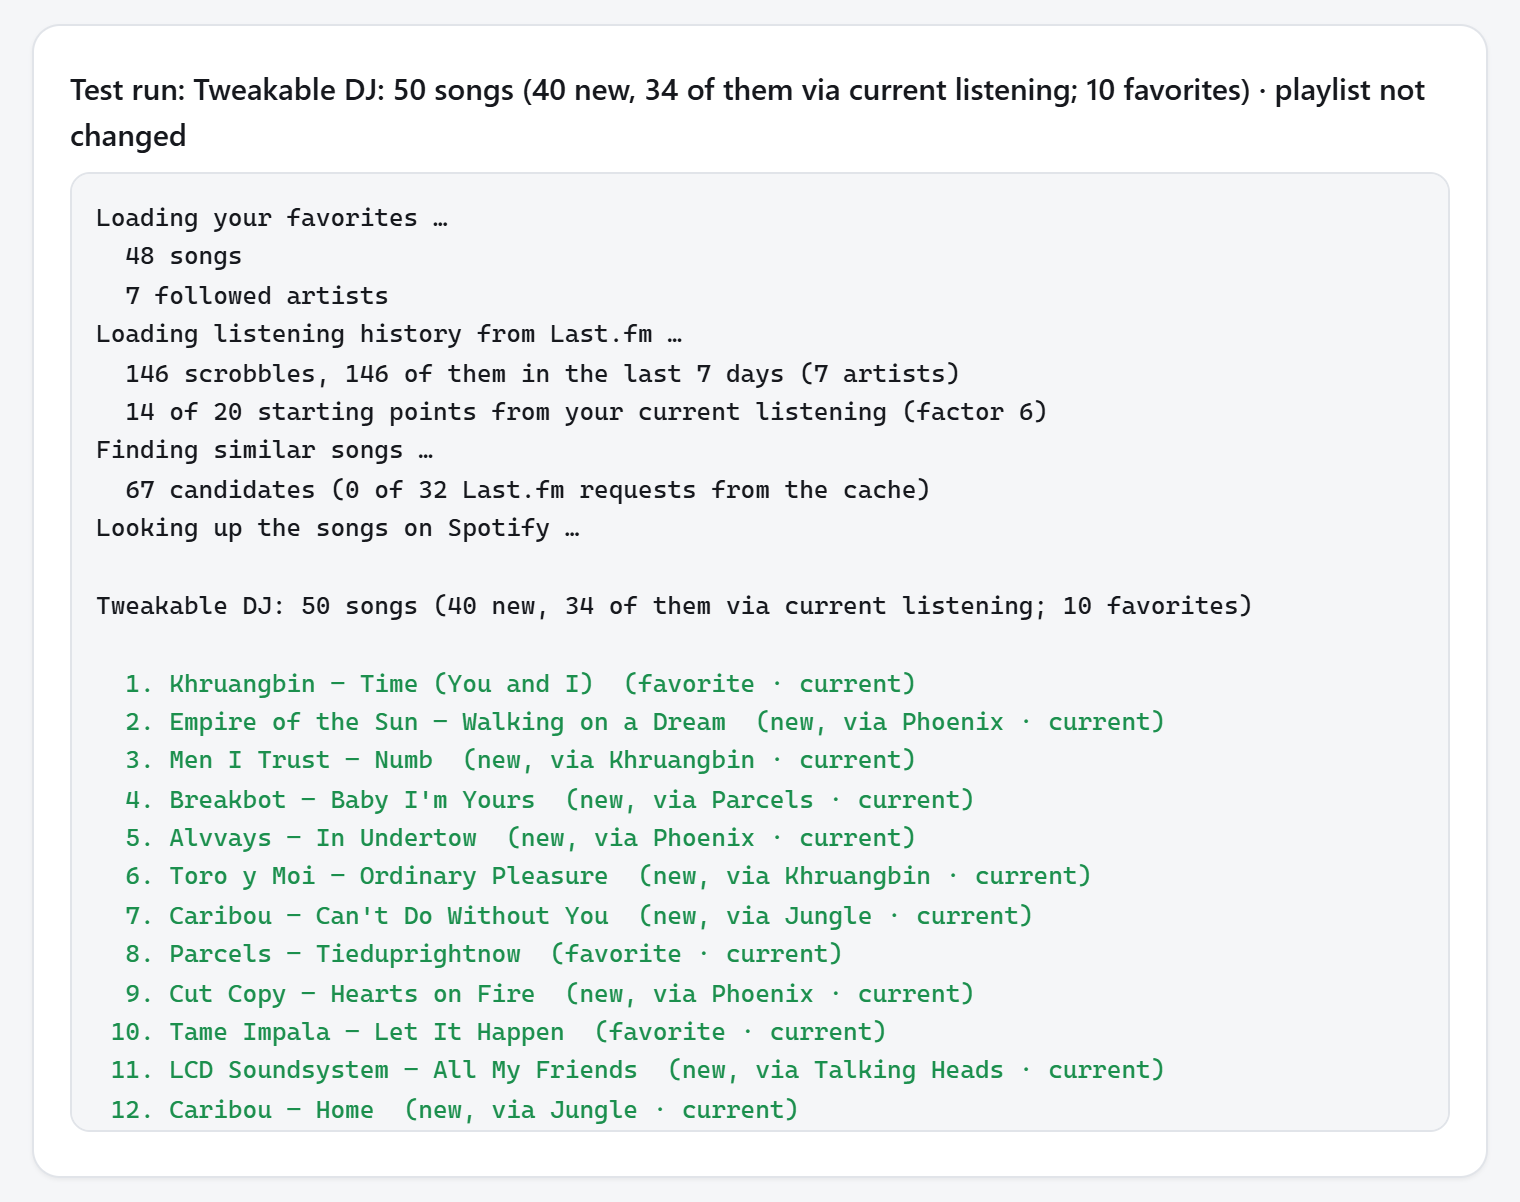
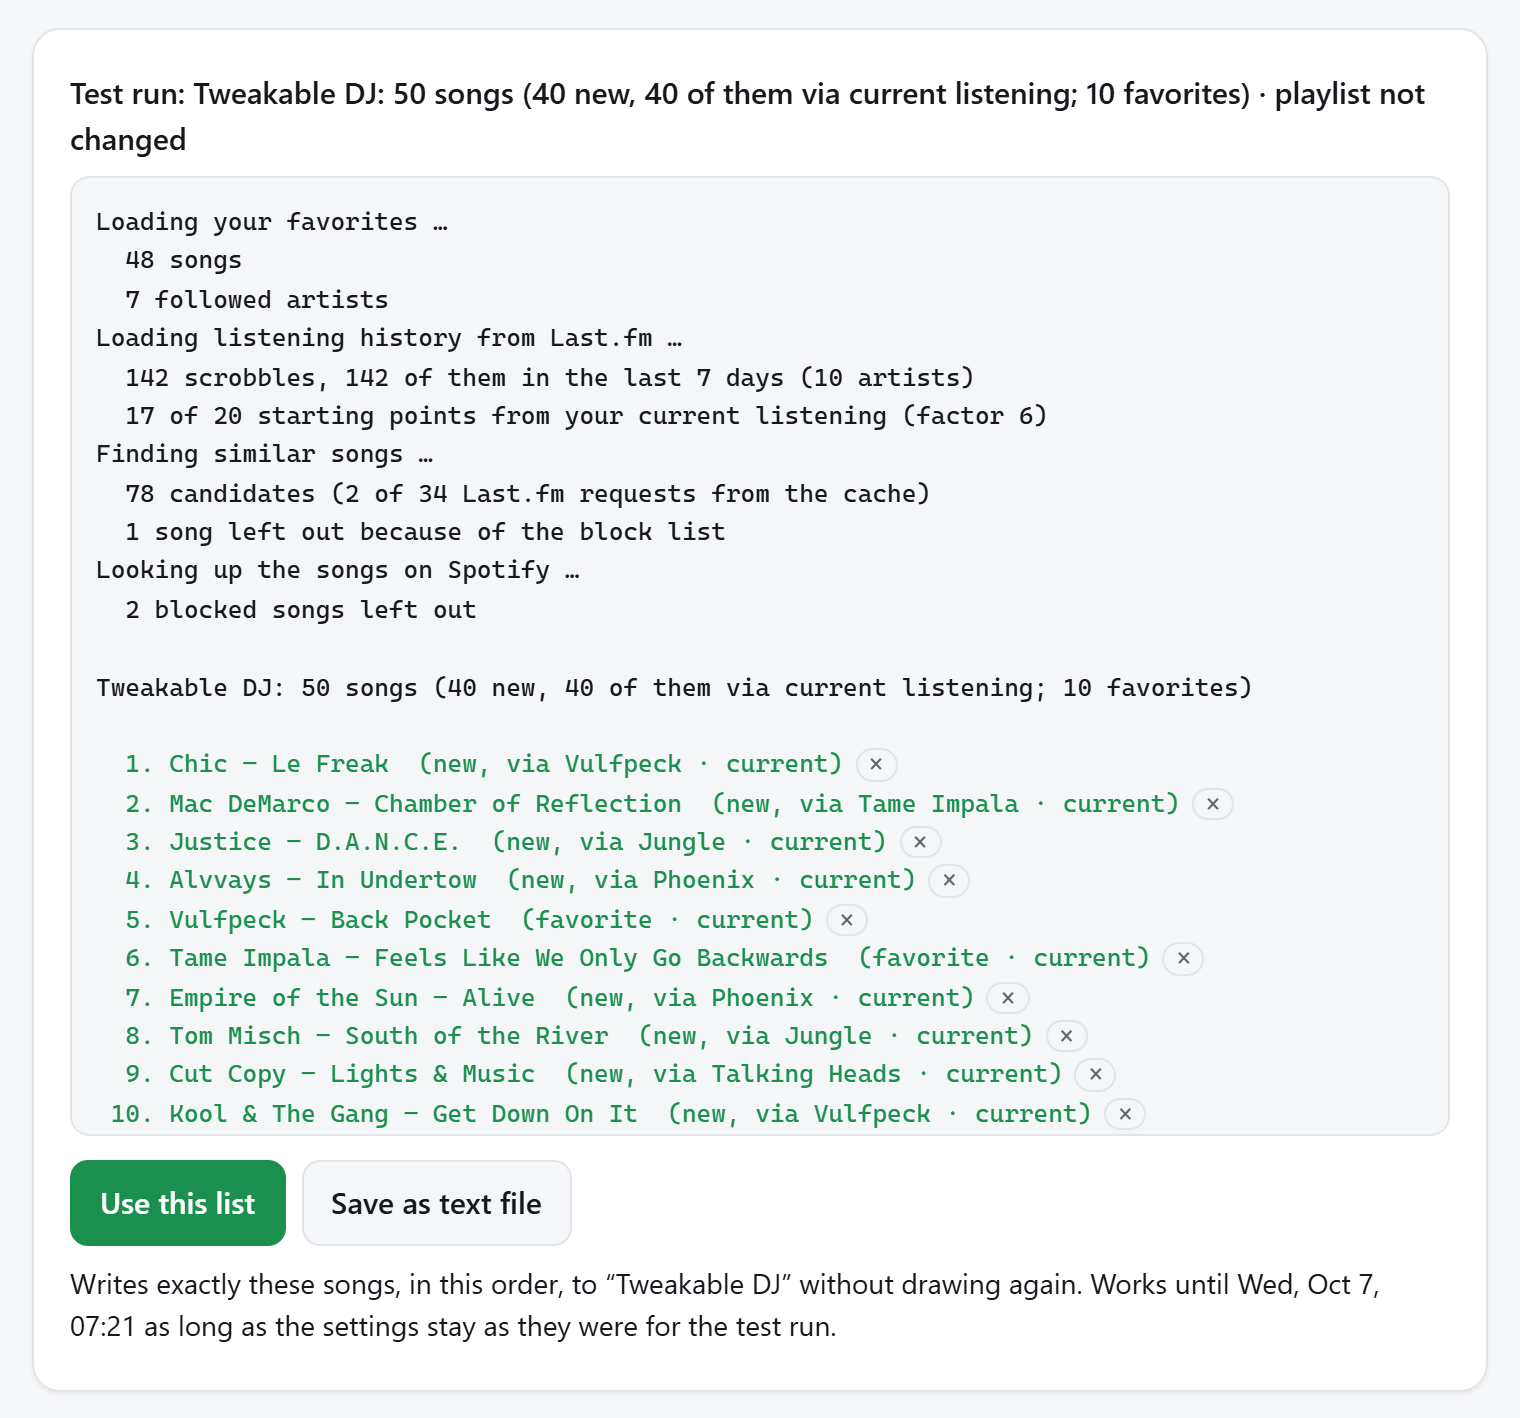
Screenshots for v0.1.2
Test run with "Use this list", "Save as text file" and the block
buttons; new image of the block list with the explicit switch, song
chips, the text file area and "Check for updates".

diff --git a/README.de.md b/README.de.md
@@ -8,7 +8,7 @@ Der KI-DJ von Spotify spricht zwischen den Songs, und seine Stimme lässt sich n
 Wie viel Abwechslung, wie viele Favoriten und wie oft derselbe Künstler vorkommt, stellst du selbst ein.
 Die Oberfläche gibt es auf Deutsch und Englisch, umschaltbar oben rechts (DE | EN).
 
-<p align="center"><img src="docs/screenshot-main.de.png" width="440" alt="Die Oberfläche von Tweakable DJ: Voreinstellungen wie Entdecken und Meine aktuelle Phase, die Einstellungen der Playlist, die Regler Gefolgte Künstler und Abwechslung bei Künstlern (mit Details für Fortgeschrittene) und die Buttons Probelauf und Playlist neu erstellen"></p>
+<p align="center"><img src="docs/screenshot-main.de.png" width="440" alt="Die Oberfläche von Tweakable DJ: Voreinstellungen wie Entdecken und Meine aktuelle Phase, die Gruppen Auswahl (mit Abenteuer und Gefolgte Künstler) und Abwechslung (Abwechslung bei Künstlern mit Details für Fortgeschrittene) und die Buttons Probelauf und Playlist neu erstellen"></p>
 
 Tweakable DJ ist ein unabhängiges Projekt und kein offizielles Spotify-Produkt (mehr dazu in [Abschnitt 12](#12-datenquellen-marken-und-lizenz)).
 
@@ -274,11 +274,13 @@ Die Gruppe *Sperrliste* hat drei Teile. Wie bei jeder Einstellung kommen Änderu
 - **Künstler, die nie gespielt werden**: Namen eintragen und auf *Hinzufügen* klicken. Mit × wieder entfernen.
 - **Songs, die nie gespielt werden**: Nach einem Probelauf steht hinter jedem Song der Liste ein kleines **×**. Ein Klick sperrt den Song: Er wird durchgestrichen, erscheint als Chip unter *Songs, die nie gespielt werden* und kommt ab dann bei keinem Lauf mehr vor, auch nicht in anderen Versionen (Remaster, Live, Single mit eigenem Link). **↺** neben einem durchgestrichenen Song oder × am Chip hebt die Sperre wieder auf. Ein Probelauf zeigt z. B. „2 gesperrte Songs ausgelassen“.
 
+<p align="center"><img src="docs/screenshot-blocklist.de.png" width="560" alt="Die Gruppen Sperrliste und Textdatei: der Schalter Keine Songs mit expliziten Texten, die gesperrten Künstler Imagine Dragons und The Killers und die gesperrten Songs Tame Impala – The Less I Know the Better und Glass Animals – Heat Waves als Chips mit ×, die Buttons Als Textdatei speichern und Textdatei importieren …, ganz unten v0.1.2 · Nach Updates suchen"></p>
+
 Sperrst du einen Song aus der Liste eines Probelaufs, ist *Diese Liste übernehmen* gesperrt (die Liste enthält ja den Song). Starte einen neuen Probelauf; er speichert deine Änderungen vorher.
 
 Für einen Import aus einer Textdatei gilt die Sperrliste nicht: Es ist deine Liste. Die Vorschau nennt die Songs, die ein Lauf des DJ auslassen würde („auf deiner Sperrliste“, „explizit“), und sie kommen trotzdem hinein.
 
-<p align="center"><img src="docs/screenshot-run.de.png" width="640" alt="Ergebnis eines Probelaufs: Tweakable DJ mit 50 Songs, davon 40 neu und 35 über aktuelles Hören gefunden, 10 Favoriten, darunter die Schritte des Laufs (samt gefolgten Künstlern) und die Liste der ausgewählten Songs"></p>
+<p align="center"><img src="docs/screenshot-run.de.png" width="640" alt="Ergebnis eines Probelaufs: Tweakable DJ mit 50 Songs, 34 neu (alle über aktuelles Hören gefunden) und 16 Favoriten, die Schritte des Laufs (samt gefolgten Künstlern und 2 ausgelassenen gesperrten Songs), der Anfang der Songliste mit einem × zum Sperren hinter jedem Song und die Buttons Diese Liste übernehmen und Als Textdatei speichern"></p>
 
 ### Im Terminal
 

diff --git a/README.md b/README.md
@@ -8,7 +8,7 @@ Spotify’s own AI DJ talks between the songs, and its voice can’t be turned o
 You decide how much variety you want, how many favorites, and how often the same artist comes up.
 The interface is available in English and German; switch at the top right (DE | EN).
 
-<p align="center"><img src="docs/screenshot-main.en.png" width="440" alt="The Tweakable DJ interface: presets such as Discover and My current phase, the playlist settings, the sliders Followed artists and Artist variety (with Details for experts), and the buttons Test run and Rebuild playlist"></p>
+<p align="center"><img src="docs/screenshot-main.en.png" width="440" alt="The Tweakable DJ interface: presets such as Discover and My current phase, the groups Selection (with Adventure and Followed artists) and Variety (Artist variety with Details for experts), and the buttons Test run and Rebuild playlist"></p>
 
 Tweakable DJ is an independent project and not an official Spotify product (more in [section 12](#12-data-sources-trademarks-and-license)).
 
@@ -274,11 +274,13 @@ The group *Block list* has three parts. Like every setting, changes are only wri
 - **Artists that are never played**: enter a name and click *Add*. Remove it again with ×.
 - **Songs that are never played**: after a test run, every song in the list has a small **×**. Clicking it blocks the song: it is struck through, appears as a chip under *Songs that are never played* and stays out of every run from then on, including other versions of it (remaster, live, a single with its own link). **↺** next to a struck-through song, or × on the chip, unblocks it. A test run shows e.g. “2 blocked songs left out”.
 
+<p align="center"><img src="docs/screenshot-blocklist.en.png" width="560" alt="The groups Block list and Text file: the switch No explicit songs, the blocked artists Imagine Dragons and The Killers and the blocked songs Tame Impala – The Less I Know the Better and Glass Animals – Heat Waves as chips with ×, the buttons Save as text file and Import text file …, and at the bottom v0.1.2 · Check for updates"></p>
+
 If you block a song from the list of a test run, *Use this list* is disabled (that list contains the song). Start a new test run; it saves your changes first.
 
 The block list doesn’t apply to an import from a text file: it’s your list. The preview names the songs a run of the DJ would leave out (“on your block list”, “explicit”), and they still go in.
 
-<p align="center"><img src="docs/screenshot-run.en.png" width="640" alt="Result of a test run: Tweakable DJ with 50 songs, 40 of them new and 34 found via current listening, 10 favorites, followed by the steps of the run (including the followed artists) and the list of picked songs"></p>
+<p align="center"><img src="docs/screenshot-run.en.png" width="640" alt="Result of a test run: Tweakable DJ with 50 songs, 40 new (all found via current listening) and 10 favorites, the steps of the run (including followed artists and 2 blocked songs left out), the start of the song list with a × after each song to block it, and the buttons Use this list and Save as text file"></p>
 
 ### In the terminal
 
